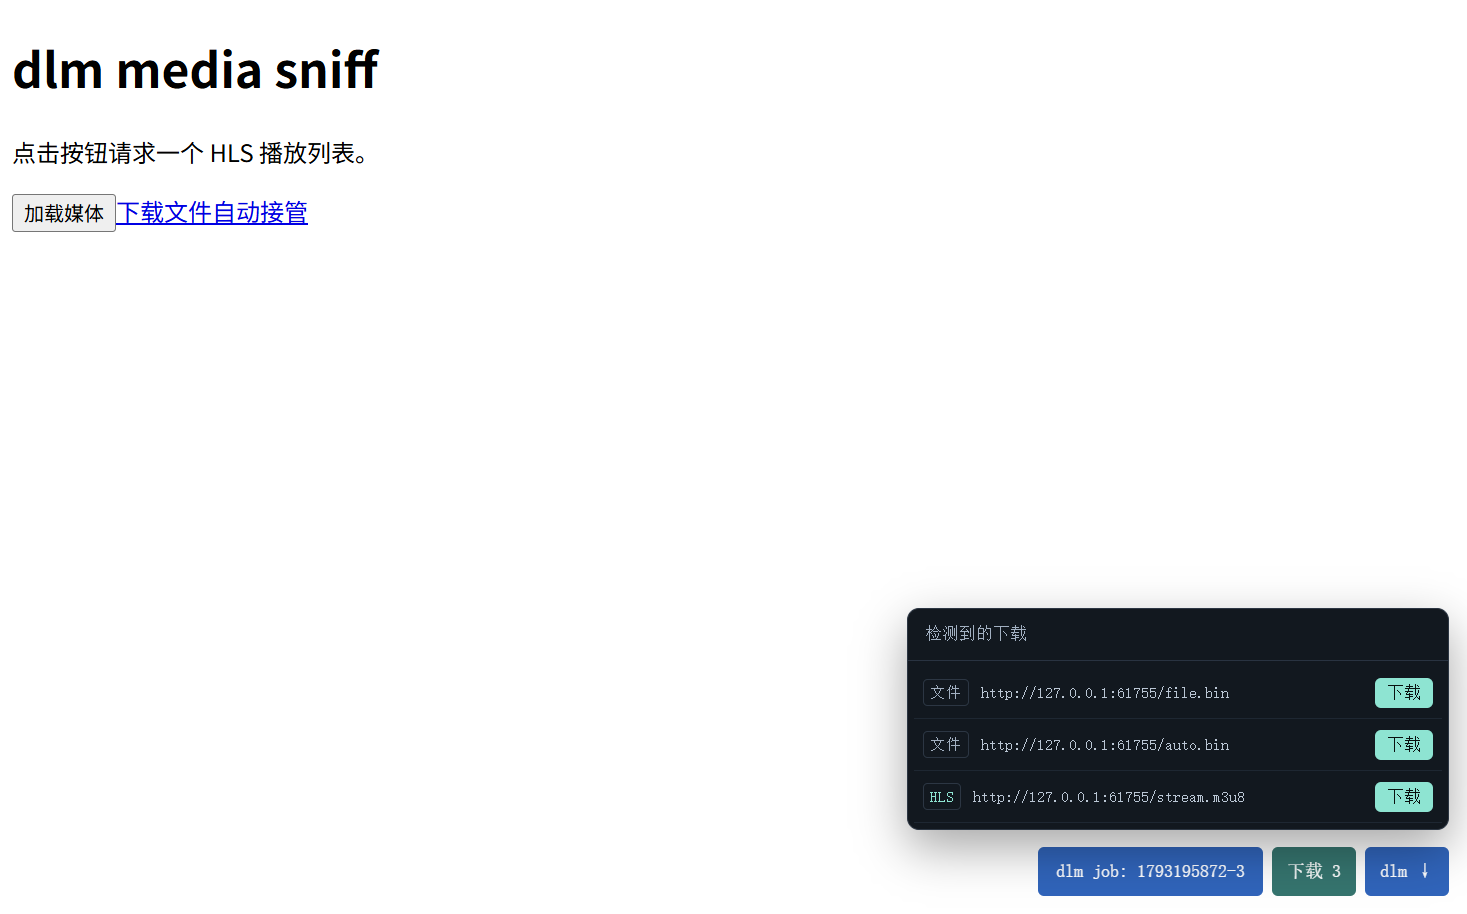
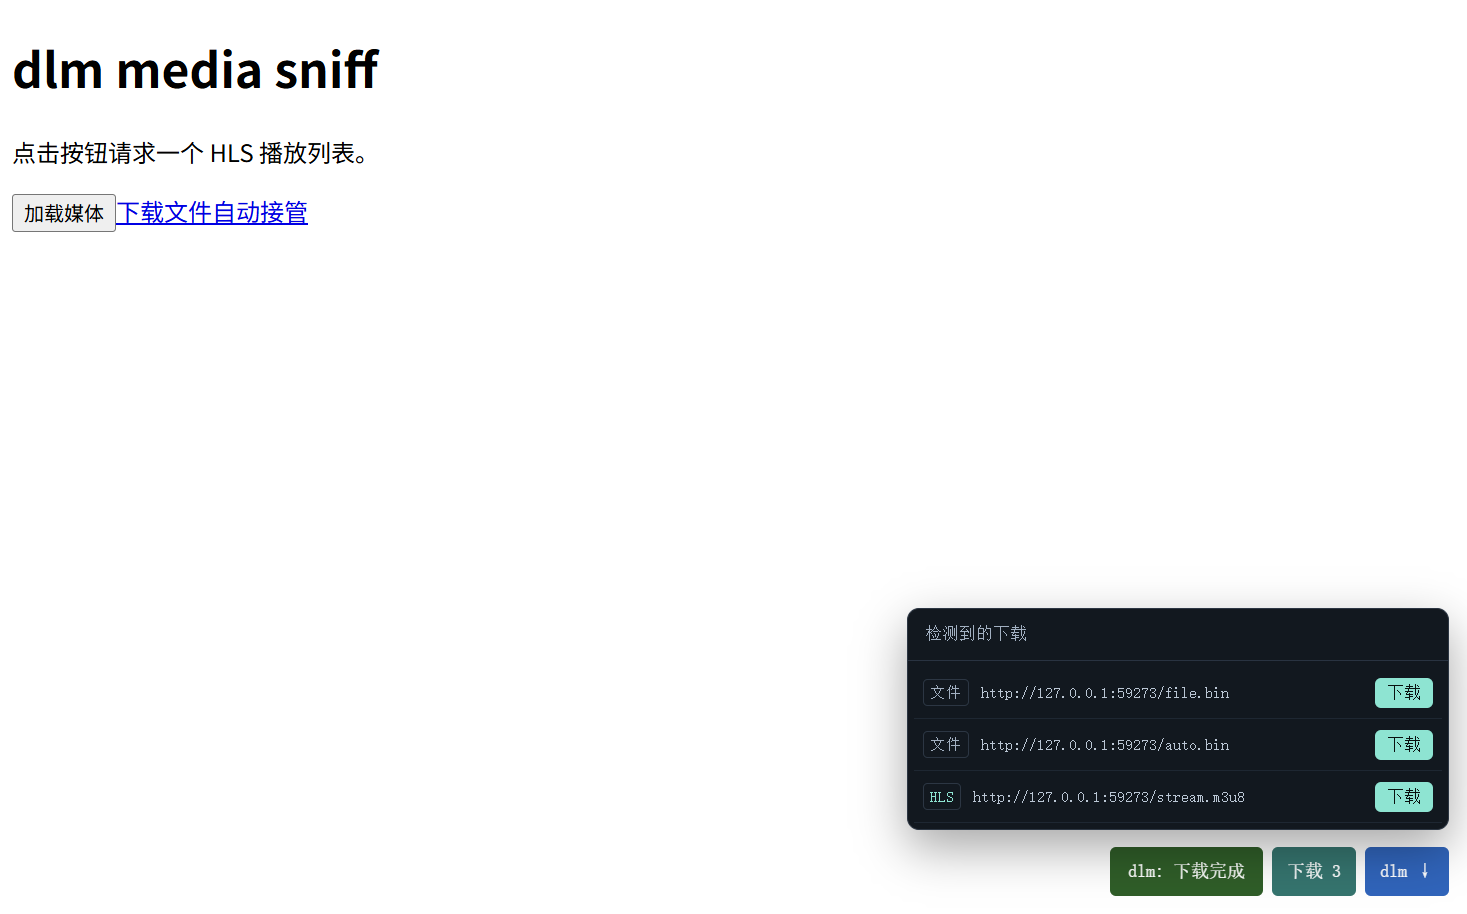
fix: 不再弹终端窗口，并在页面显示下载完成/失败
- 宿主在 Windows 用 CREATE_NO_WINDOW 启动 dlm，关窗口不再误杀下载
- 子进程退出后回 {op:"done"}，页面与 popup 显示正在下载/完成/失败
- Service Worker 改为 background-sw.js + 版本化 import，避开旧缓存
- Tabbit 32 MiB 实测 MainWindowHandle=0、状态变“下载完成”

Changed region(s): [[0.7055, 0.919, 0.8589, 0.9803]]

diff --git a/browser/extension/content.js b/browser/extension/content.js
@@ -1,5 +1,6 @@
 // 页面右下角的 dlm 状态 + 一个把当前页交给 dlm 的按钮（B2 的最小可测入口）。
 // 真正的右键菜单在 background.js；这个按钮让浏览器验收可以走 DOM 点击。
+document.documentElement.setAttribute("data-dlm-version", chrome.runtime.getManifest().version);
 
 function ensureBox() {
   let box = document.getElementById("dlm-native-box");
@@ -218,14 +219,18 @@ document.addEventListener(
 function render() {
   ensureBox();
   const el = document.getElementById("dlm-native-status");
-  chrome.storage.local.get(["lastPong", "lastError", "lastJob"], (values) => {
+  chrome.storage.local.get(["lastPong", "lastError", "lastJob", "lastResult"], (values) => {
     hostReady = !!values.lastPong;
-    if (values.lastJob) {
+    if (values.lastResult) {
+      const r = values.lastResult;
+      el.textContent = r.ok ? "dlm: 下载完成" : "dlm: 下载失败（退出码 " + (r.code ?? "?") + "）";
+      el.style.background = r.ok ? "#1b5e20" : "#c62828";
+    } else if (values.lastJob) {
       const job = values.lastJob;
       if (job.mode === "queue") {
-        el.textContent = "dlm queue: " + (job.id || "accepted");
+        el.textContent = "dlm: 已加入队列 " + (job.id || "");
       } else {
-        el.textContent = "dlm job: " + (job.job || "accepted");
+        el.textContent = "dlm: 正在下载 " + (job.job || "");
       }
       el.style.background = "#1565c0";
     } else if (values.lastPong) {
@@ -243,5 +248,12 @@ render();
 refreshMedia();
 setInterval(refreshMedia, 1500);
 chrome.storage.onChanged.addListener(render);
+chrome.runtime.onMessage.addListener((msg) => {
+  if (!msg || msg.op !== "job-done") return;
+  const el = document.getElementById("dlm-native-status");
+  if (!el) return;
+  el.textContent = msg.ok ? "dlm: 下载完成" : "dlm: 下载失败（退出码 " + (msg.code ?? "?") + "）";
+  el.style.background = msg.ok ? "#1b5e20" : "#c62828";
+});
 // 页面加载时主动唤醒 service worker：未打包扩展刚加载时它可能还没被任何事件拉起。
 chrome.runtime.sendMessage({ op: "wake" }, () => void chrome.runtime.lastError);

diff --git a/browser/extension/background-impl.js b/browser/extension/background-impl.js
@@ -9,6 +9,7 @@ const mediaStore = chrome.storage.session || chrome.storage.local;
 let port = null;
 let mediaByTab = new Map();
 const mediaReady = loadMedia();
+chrome.storage.local.set({ buildVersion: chrome.runtime.getManifest().version, buildHasDone: true });
 
 function store(values) {
   chrome.storage.local.set(values);
@@ -121,9 +122,24 @@ function connect() {
   }
 
   port.onMessage.addListener((msg) => {
-    if (msg && msg.op === "accepted") {
+    if (msg && msg.op === "done") {
+      store({ lastResult: msg });
+      chrome.action.setBadgeText({ text: msg.ok ? "✓" : "!" });
+      chrome.action.setBadgeBackgroundColor({ color: msg.ok ? "#2e7d32" : "#c62828" });
+      chrome.tabs.query({ active: true, lastFocusedWindow: true }, (tabs) => {
+        const tab = tabs && tabs[0];
+        if (tab && tab.id != null) {
+          chrome.tabs.sendMessage(
+            tab.id,
+            { op: "job-done", job: msg.job, ok: msg.ok, code: msg.code },
+            () => void chrome.runtime.lastError
+          );
+        }
+      });
+      console.log("dlm job done", msg);
+    } else if (msg && msg.op === "accepted") {
       const mode = msg.mode || "direct";
-      store({ lastJob: { ...msg, mode }, lastError: null });
+      store({ lastJob: { ...msg, mode }, lastResult: null, lastError: null });
       chrome.action.setBadgeText({ text: "↓" });
       chrome.action.setBadgeBackgroundColor({ color: "#0f766e" });
       console.log("dlm job accepted", mode, msg);

diff --git a/browser/extension/popup.js b/browser/extension/popup.js
@@ -77,8 +77,13 @@ function refresh() {
   });
 }
 
-chrome.storage.local.get(["lastPong", "lastError", "lastJob"], (values) => {
-  if (values.lastJob) setStatus(values.lastJob.mode === "queue" ? "已加入队列" : "已直接下载");
+chrome.storage.local.get(["lastPong", "lastError", "lastJob", "lastResult"], (values) => {
+  if (values.lastResult) {
+    setStatus(
+      values.lastResult.ok ? "下载完成" : "下载失败（退出码 " + (values.lastResult.code ?? "?") + "）",
+      !values.lastResult.ok
+    );
+  } else if (values.lastJob) setStatus(values.lastJob.mode === "queue" ? "已加入队列" : "已交给 dlm");
   else if (values.lastPong) setStatus("宿主 " + (values.lastPong.version || "ok"));
   else setStatus(values.lastError || "宿主未连接", true);
 });

diff --git a/browser/extension/background-sw.js b/browser/extension/background-sw.js
@@ -1,0 +1,4 @@
+// 稳定的 Service Worker 入口：实现文件带版本号 import。
+// Chrome 会把未打包扩展的 SW 脚本缓存到 profile 里，只改文件内容、重启浏览器也可能仍跑旧代码；
+// 把版本号放进 import URL，升版本就换 URL，强制重新取实现。
+importScripts(`background-impl.js?v=${chrome.runtime.getManifest().version}`);

diff --git a/src/host.rs b/src/host.rs
@@ -8,7 +8,11 @@ use std::fs;
 use std::io::{self, Read, Write};
 use std::path::{Path, PathBuf};
 use std::process::{Command, Stdio};
+use std::sync::Arc;
 use std::time::{Duration, SystemTime, UNIX_EPOCH};
+
+#[cfg(windows)]
+use std::os::windows::process::CommandExt;
 
 use serde::Deserialize;
 use serde_json::{Value, json};
@@ -82,20 +86,45 @@ impl HostConfig {
     }
 }
 
+/// Windows：别给控制台程序开可见终端。宿主是浏览器拉起的后台进程，弹一个空白终端
+/// 会让用户以为“没反应”，关掉窗口还会顺手杀掉正在下载的 dlm。
+#[cfg(windows)]
+const CREATE_NO_WINDOW: u32 = 0x0800_0000;
+
+type Notify = Arc<dyn Fn(Vec<u8>) + Send + Sync>;
+
 pub struct Host {
     config: HostConfig,
     seq: u64,
+    notify: Option<Notify>,
 }
 
 impl Host {
     pub fn new(config: HostConfig) -> Self {
-        Self { config, seq: 0 }
+        Self { config, seq: 0, notify: None }
+    }
+
+    pub fn with_notify(mut self, notify: Notify) -> Self {
+        self.notify = Some(notify);
+        self
     }
 
     pub fn serve_stdio() -> io::Result<()> {
         let config = HostConfig::load();
-        let mut host = Host::new(config);
-        host.serve(io::stdin().lock(), io::stdout().lock())
+        let out = Arc::new(std::sync::Mutex::new(io::stdout()));
+        let writer = out.clone();
+        let host = Host::new(config).with_notify(Arc::new(move |bytes| {
+            if let Ok(mut guard) = writer.lock() {
+                let _ = native::write_frame(&mut *guard, &bytes);
+            }
+        }));
+        let mut stdin = io::stdin().lock();
+        let mut host = host;
+        while let Some(frame) = native::read_frame(&mut stdin)? {
+            let reply = host.handle(&frame);
+            native::write_frame(&mut *out.lock().expect("stdout lock"), &reply)?;
+        }
+        Ok(())
     }
 
     pub fn serve<R: Read, W: Write>(&mut self, mut input: R, mut output: W) -> io::Result<()> {
@@ -209,6 +238,8 @@ impl Host {
             .stdout(Stdio::from(log))
             .stderr(Stdio::from(log_err))
             .stdin(if cookie.is_some() { Stdio::piped() } else { Stdio::null() });
+        #[cfg(windows)]
+        command.creation_flags(CREATE_NO_WINDOW);
         let mut child = match command.spawn() {
             Ok(child) => child,
             Err(err) => {
@@ -222,6 +253,27 @@ impl Host {
         {
             let _ = child.kill();
             return error("could not hand cookie to dlm");
+        }
+
+        if let Some(notify) = self.notify.clone() {
+            let job = job.clone();
+            let log_path = log_path.clone();
+            std::thread::spawn(move || {
+                let (ok, code) = match child.wait() {
+                    Ok(status) => (status.success(), status.code()),
+                    Err(_) => (false, None),
+                };
+                let frame = json!({
+                    "op": "done",
+                    "job": job,
+                    "ok": ok,
+                    "code": code,
+                    "log": log_path.to_string_lossy(),
+                });
+                if let Ok(bytes) = serde_json::to_vec(&frame) {
+                    notify(bytes);
+                }
+            });
         }
 
         serde_json::to_vec(&json!({
@@ -389,6 +441,28 @@ mod tests {
         assert_eq!(reply["mode"], "direct", "没有端点文件 ⇒ 回退直连：{reply}");
         let log = reply["log"].as_str().expect("log path");
         assert!(std::path::Path::new(log).exists(), "job log should exist: {log}");
+        let _ = fs::remove_dir_all(&dir);
+    }
+
+    #[test]
+    fn host_reports_when_the_download_process_exits() {
+        let dir = std::env::temp_dir().join(format!("dlm-b2-done-{}", std::process::id()));
+        let _ = fs::remove_dir_all(&dir);
+        let (tx, rx) = std::sync::mpsc::channel();
+        let mut host = Host::new(config(&dir)).with_notify(Arc::new(move |bytes| {
+            let _ = tx.send(bytes);
+        }));
+        let reply: Value = serde_json::from_slice(
+            &host.handle(br#"{"op":"download","url":"https://example.invalid/x","name":"x.bin"}"#),
+        )
+        .unwrap();
+        assert_eq!(reply["op"], "accepted", "{reply}");
+        let frame = rx.recv_timeout(Duration::from_secs(15)).expect("done frame");
+        let done: Value = serde_json::from_slice(&frame).unwrap();
+        assert_eq!(done["op"], "done", "{done}");
+        assert_eq!(done["job"], reply["job"]);
+        assert!(done["ok"].is_boolean(), "done 必须带退出结论：{done}");
+        assert_eq!(done["log"], reply["log"]);
         let _ = fs::remove_dir_all(&dir);
     }
 

diff --git a/docs/evidence/2026-10-28-native-host-window.md b/docs/evidence/2026-10-28-native-host-window.md
@@ -1,0 +1,52 @@
+# 右键/点击下载弹终端窗口与完成反馈（2026-10-28）
+
+## 症状
+
+在 Tabbit 里点击一个下载链接后，出现一个**空白终端窗口**，页面没有任何“开始/完成”提示；
+关掉终端窗口后，正在下载的任务也停了。
+
+## 现场证据
+
+- `%USERPROFILE%\Downloads` 有
+  `diffusion_pytorch_model-00001-of-00002.safetensors`（9,350,576,863 B）和同名 `.dlm.json`；
+  对应任务日志 `1793196276-2.log` 为 **0 字节**（dlm 的 stdout/stderr 被重定向到日志，终端窗口里本来就没有内容）。
+- 宿主创建 dlm 时没有设置 `CREATE_NO_WINDOW`：控制台子系统程序由浏览器后台进程拉起时，
+  Windows 会新开一个控制台窗口；关窗口 = 杀掉 dlm。
+
+## 修复
+
+1. **宿主不再弹窗**：`src/host.rs` 在 Windows 上给 `Command` 加
+   `creation_flags(CREATE_NO_WINDOW)`（`0x0800_0000`）。
+2. **完成/失败可见**：宿主在子进程退出后向扩展回一条
+   `{op:"done", job, ok, code, log}`；`background` 存 `lastResult`、切徽标并通知当前标签页；
+   页面右下角显示“正在下载 / 下载完成 / 下载失败（退出码）”，popup 同步显示最近结果。
+   新判据：`host::tests::host_reports_when_the_download_process_exits`。
+3. **Service Worker 缓存**：Tabbit 里只更新 `background.js` 文件、重启浏览器后，
+   Service Worker 仍跑旧代码（content 已是新版本、`background` 的新分支不执行）。
+   改为稳定入口 `background-sw.js`，按扩展版本
+   `importScripts("background-impl.js?v=<version>")`；升版本即换 URL，强制重取实现。
+   验证标记：content 的 `data-dlm-version` 与 storage 的 `buildVersion`。
+
+## 验证
+
+- Tabbit 真实左键点击本地慢速链接（32 MiB，约 3 MB/s）：
+  - 下载期间 `Get-Process dlm` 的 `MainWindowHandle = 0`（没有可见终端窗口）；
+  - 落盘 `slow.bin` **33,554,432 B**；
+  - 页面状态从 `dlm: 正在下载 <job>` 变为 `dlm: 下载完成`。
+- Edge 156 自动化（`verify-media-sniff.mjs`）：`host_status=dlm: 下载完成`、
+  `done_status=dlm: 下载完成`；面板下载、点击接管、普通链接对照全过。
+- 扩展版本 **0.2.4**；已安装副本与源码一致。
+
+## 被中断的 9.35 GB 文件
+
+- 该次运行被关窗口杀掉时，断点里只确认了很少的覆盖（日志 0 B、状态文件仅几 KB）；
+  旧文件里的 9.35 GB 大部分**没有记进断点**，dlm 不能安全信任。
+- 用断点里的 URL/Referer/Cookie 续传时，dlm 实际从头重下（约 5–6 MB/s），已停止，避免再跑一遍 10 GB。
+- 因此 `Downloads` 里那份 `diffusion_pytorch_model-00001-of-00002.safetensors` **不是完整文件**；
+  需要的话请删除后重新点击下载（现在不会再弹终端窗口，状态会显示“正在下载/完成”）。
+- 后续若要少丢进度，应把“运行中被硬杀时的状态保存频率”纳入内核改进项，而不是信任未确认字节。
+
+## 四闸
+
+`--lib` **309/0**（新增 1 条 host done 判据）· `--bins` **4/0** · `integration` **117/0** ·
+`clippy --all-targets -- -D warnings` **0**。

diff --git a/docs/evidence/2026-10-28-media-sniff.md b/docs/evidence/2026-10-28-media-sniff.md
@@ -6,7 +6,7 @@
 
 ## 实现
 
-- `background.js`：
+- `background-impl.js`（入口是稳定的 `background-sw.js`，按扩展版本 import）：
   - `webRequest.onBeforeRequest` 只读嗅探 `.m3u8`/媒体后缀（每 tab 去重、最多 40 条，
     `storage.session` 跨 service worker 保存，`tabs.onRemoved/onUpdated` 清理）。
   - `webRequest.onHeadersReceived`（`responseHeaders`）认 `Content-Disposition: attachment`
@@ -19,11 +19,14 @@
 - `content.js` 点击接管：已识别为下载/媒体的 `<a>` 左键点击在捕获阶段 `preventDefault`，
   改发 `page-download`；只在宿主最近回过 pong 时生效；Ctrl/Shift/Alt、`target="_blank"`、
   普通链接不接管；`page-download` 回执 `ok:false` 时回退浏览器默认行为。
-- `background.js`：`page-download` 回 `{ok}`，让 content 能区分“宿主没接住”并回退。
+- `background-impl.js`：`page-download` 回 `{ok}`，让 content 能区分“宿主没接住”并回退；
+  收到宿主的 `op:"done"` 后存 `lastResult`、切徽标，并通知当前标签页。
+- `src/host.rs`：spawn dlm 用 `CREATE_NO_WINDOW`（Windows），不再弹终端窗口；
+  子进程退出后回 `{op:"done",job,ok,code,log}`。
 - `popup.html` / `popup.js`：扩展图标 popup，显示宿主状态和当前标签页下载列表。
 - `src/host.rs`：`download` 接受 `hls:true`，跳过队列，给 dlm 加 `--hls`；HLS 强制直连；
   普通文件不带 Cookie 时按 B10 进队列。**本轮 host.rs 无改动。**
-- Manifest：扩展版本 **0.2.2**（点击接管增量；权限沿用 `webRequest`）。
+- Manifest：扩展版本 **0.2.4**（点击接管 + 完成反馈 + SW 缓存入口；权限沿用 `webRequest`）。
 
 ## 真浏览器验收（Edge 156）
 
@@ -50,12 +53,14 @@ normal_link_prevented=false
 
 ## 真浏览器验收（Tabbit 1.18.21 / Chromium 154）
 
-- 扩展从 `%LOCALAPPDATA%\dlm\extension`（0.2.2）加载；页面出现 `下载 2`，
+- 扩展从 `%LOCALAPPDATA%\dlm\extension`（0.2.4）加载；页面出现 `下载 2`，
   条目 `stream.m3u8` + `tabbit-file.bin`。
 - 点文件条目：`%USERPROFILE%\Downloads\tabbit-file.bin` **4 B** = `FILE`；
 - 点 HLS 条目：`%USERPROFILE%\Downloads\stream.ts` **6 B** = `AAABBB`；
 - **左键点页面里的下载链接**：页面 URL 不变，dlm 落盘 `tabbit-file.bin` **4 B** = `FILE`；
-  本地站点记录到请求头 `ua="dlm/0.1.0"`。
+  本地站点记录到请求头 `ua="dlm/0.1.0"`；状态从“正在下载”变为 `dlm: 下载完成`。
+- **慢速 32 MiB 下载**：dlm 进程 `MainWindowHandle=0`（没有终端窗口），落盘 33,554,432 B，
+  状态最终为 `dlm: 下载完成`。
 - 截图：`docs/evidence/2026-10-28-tabbit-file-panel.png`；
   加载与快捷方式细节：`2026-10-28-tabbit-extension.md`。
 

diff --git a/docs/superpowers/plans/2026-10-15-dlm-kernel-STATUS.md b/docs/superpowers/plans/2026-10-15-dlm-kernel-STATUS.md
@@ -221,11 +221,23 @@
 - **四闸**：`--lib` **308/0** · `--bins` **4/0** · `integration` **117/0** · clippy **0**（纯扩展/文档）。
 - **未做**：不做 `chrome.downloads` 全局接管，JS 按钮/表单触发的下载仍走浏览器。
 
+## 2026-10-28 下载不再弹终端窗口 + 完成反馈
+
+- **症状**：点击下载后出现空白终端窗口；关窗口会杀掉 dlm，页面无任何完成/失败提示。
+- **修复**：`host.rs` 在 Windows 上以 `CREATE_NO_WINDOW` 启动 dlm；子进程退出后回
+  `{op:"done",job,ok,code,log}`，页面右下角与 popup 显示“正在下载 / 下载完成 / 下载失败（退出码）”。
+- **SW 缓存**：未打包扩展只改 `background.js`、重启浏览器仍可能跑旧 Service Worker；
+  改为 `background-sw.js` + 版本化 `importScripts("background-impl.js?v=<version>")`。
+- **验证**：Tabbit 32 MiB 慢速下载 `MainWindowHandle=0`、落盘 33,554,432 B、状态变为“下载完成”；
+  Edge 自动化的 `done_status` 也是“下载完成”。扩展 0.2.4。
+- **四闸**：`--lib` **309/0** · `--bins` **4/0** · `integration` **117/0** · clippy **0**。
+- **未做**：被硬杀时未确认的字节不能安全续传；本次 9.35 GB 半截文件已停止重下，需删除后重下。
+
 ## 2026-10-28 Windows x64 便携包
 
 - **打包脚本**：`packaging/build-package.ps1`；产物 `target/package/dlm-0.1.0-win-x64.zip`
[1 lines of base64/hex data omitted]
-  2026-10-28 晚随扩展 0.2.2、点击接管与 User-Agent 修复重建）。
[1 lines of base64/hex data omitted]
+  2026-10-28 晚随扩展 0.2.4、点击接管、完成反馈与 User-Agent 修复重建）。
 - **包含**：三个 release exe、`browser/extension`（MV3）、`install.ps1`/`uninstall.ps1`、
   `START-HERE.txt`/`README-PACKAGE.md`、主 README；共 14 个文件。
 - **安装器**：复制到 `%LOCALAPPDATA%\dlm\bin` + `extension`，写宿主 manifest，注册 HKCU Chrome/Edge，

diff --git a/docs/superpowers/plans/2026-10-21-三路路线图.md b/docs/superpowers/plans/2026-10-21-三路路线图.md
@@ -210,7 +210,10 @@ GUI 不可达回退 B2 直连；队列明确拒绝不回退；超时不重复下
 - **2026-10-28**：**B3b-lite 点击下载接管**（扩展 0.2.2）：已识别的下载/媒体链接左键直接交给 dlm，
   宿主未就绪/修饰键/`_blank`/普通链接不接管，投递失败回退浏览器。Edge 156 与 Tabbit 实测。
   四闸不变 **308/4/117/clippy 0**。
+- **2026-10-28**：**下载不再弹终端窗口 + 完成反馈**（扩展 0.2.4）：宿主用 `CREATE_NO_WINDOW` 启动 dlm，
+  子进程退出回 `done`，页面/popup 显示正在下载/完成/失败；Service Worker 改用版本化入口避免旧缓存。
+  Tabbit 32 MiB 实测 `MainWindowHandle=0`。四闸 **309/4/117/clippy 0**。
 - **2026-10-28**：**Windows x64 便携包已产出**（`packaging/build-package.ps1`；
-  `target/package/dlm-0.1.0-win-x64.zip`，6,599,956 B，sha256 `47cb3a8d…`，扩展 0.2.2）。含三个 release exe、
+  `target/package/dlm-0.1.0-win-x64.zip`，6,608,186 B，sha256 `6c142abe…`，扩展 0.2.4）。含三个 release exe、
   扩展、安装/卸载脚本；安装器未执行，只做语法检查。四闸不变 **307/4/117/clippy 0**。
 - 四闸基线（2026-10-28 收口亲跑）：`--lib` 307/0 · `--bins` 4/0 · `integration` 117/0 · clippy 0。（2026-10-21 接手时的基线是 240/3/97。）

diff --git a/browser/README.md b/browser/README.md
@@ -85,7 +85,12 @@ node browser/test/verify-native-ping.mjs --browser "C:\Program Files (x86)\Micro
 - 页面里已识别的下载/媒体链接，左键点击会被 content script 接管（`preventDefault`）并交给 dlm；
   仅当宿主最近回过 pong 时生效；Ctrl/Shift/Alt、`target="_blank"`、普通链接不接管；
   `page-download` 投递失败时回退浏览器默认行为。
+- 宿主 spawn dlm 时用 `CREATE_NO_WINDOW`，不再弹空白终端窗口（关窗口会顺手杀掉下载）。
+- 宿主在子进程退出后回一条 `op:"done"`；页面右下角显示“正在下载 / 下载完成 / 下载失败（退出码）”，
+  popup 同步显示最近结果。
 - 工具栏 popup 显示宿主状态与当前标签页的下载列表。
+- `background.js` 是稳定入口 `background-sw.js` + 版本化 `importScripts("background-impl.js?v=<version>")`：
+  未打包扩展的 Service Worker 会被浏览器缓存，换实现时靠版本号换 URL 强制重取。
 - 宿主 `hls:true` 强制直连 `dlm --hls`，不走队列（队列不接不可续传的 HLS）；
   普通文件不带 Cookie 时按 B10 进队列（GUI 开着），带 Cookie 或 GUI 不可达时直连。
 - 验收：

diff --git a/README.md b/README.md
@@ -232,7 +232,8 @@ node browser/test/verify-queue-download.mjs --browser "C:\Program Files (x86)\Mi
 （标签 HLS/文件），工具栏 popup 也能看；点“下载”把 URL 交给宿主：HLS 强制直连 `dlm --hls`
 （队列不接不可续传的 HLS），普通文件按 B10 规则走队列或直连。
 页面里已识别为下载/媒体的链接，**左键点击也直接交给 dlm**，不再走浏览器；宿主未连接、
-带 Ctrl/Shift/Alt、`target="_blank"` 和普通网页链接都不接管。只列这些，不列 DASH，不自动下载。浏览器验收：
+带 Ctrl/Shift/Alt、`target="_blank"` 和普通网页链接都不接管。宿主 spawn dlm 时不再弹终端窗口；
+页面右下角会显示“正在下载 / 下载完成 / 下载失败（退出码）”。只列这些，不列 DASH，不自动下载。浏览器验收：
 
 ```bash
 node browser/test/verify-media-sniff.mjs --browser "C:\Program Files (x86)\Microsoft\Edge\Application\msedge.exe"

diff --git a/docs/evidence/2026-10-28-tabbit-extension.md b/docs/evidence/2026-10-28-tabbit-extension.md
@@ -41,6 +41,11 @@
 **注意**：扩展文件更新后必须完全退出 Tabbit（`Stop-Process -Name 'Tabbit Browser'`）再从未改过的快捷方式启动；
 仅关闭窗口或再次点快捷方式不会重新加载已解压扩展，面板仍是旧代码。
 
+**Service Worker 缓存**：只改 `background.js`、重启浏览器后，content script 会更新而 Service Worker
+可能仍跑旧缓存（实测 done 分支不执行）。扩展 0.2.4 起入口固定为 `background-sw.js`，内部按版本
+`importScripts("background-impl.js?v=<version>")`；升版本即换 URL，强制重取实现。
+排查标记：页面 `document.documentElement` 的 `data-dlm-version`，storage 的 `buildVersion`。
+
 ## 注意
 
 - 重启 Tabbit 时它没有自动恢复原标签页；已手动恢复 4 个 URL（本机 `samueldemac-mini.local` 已 DNS 不解析，未能恢复）。
